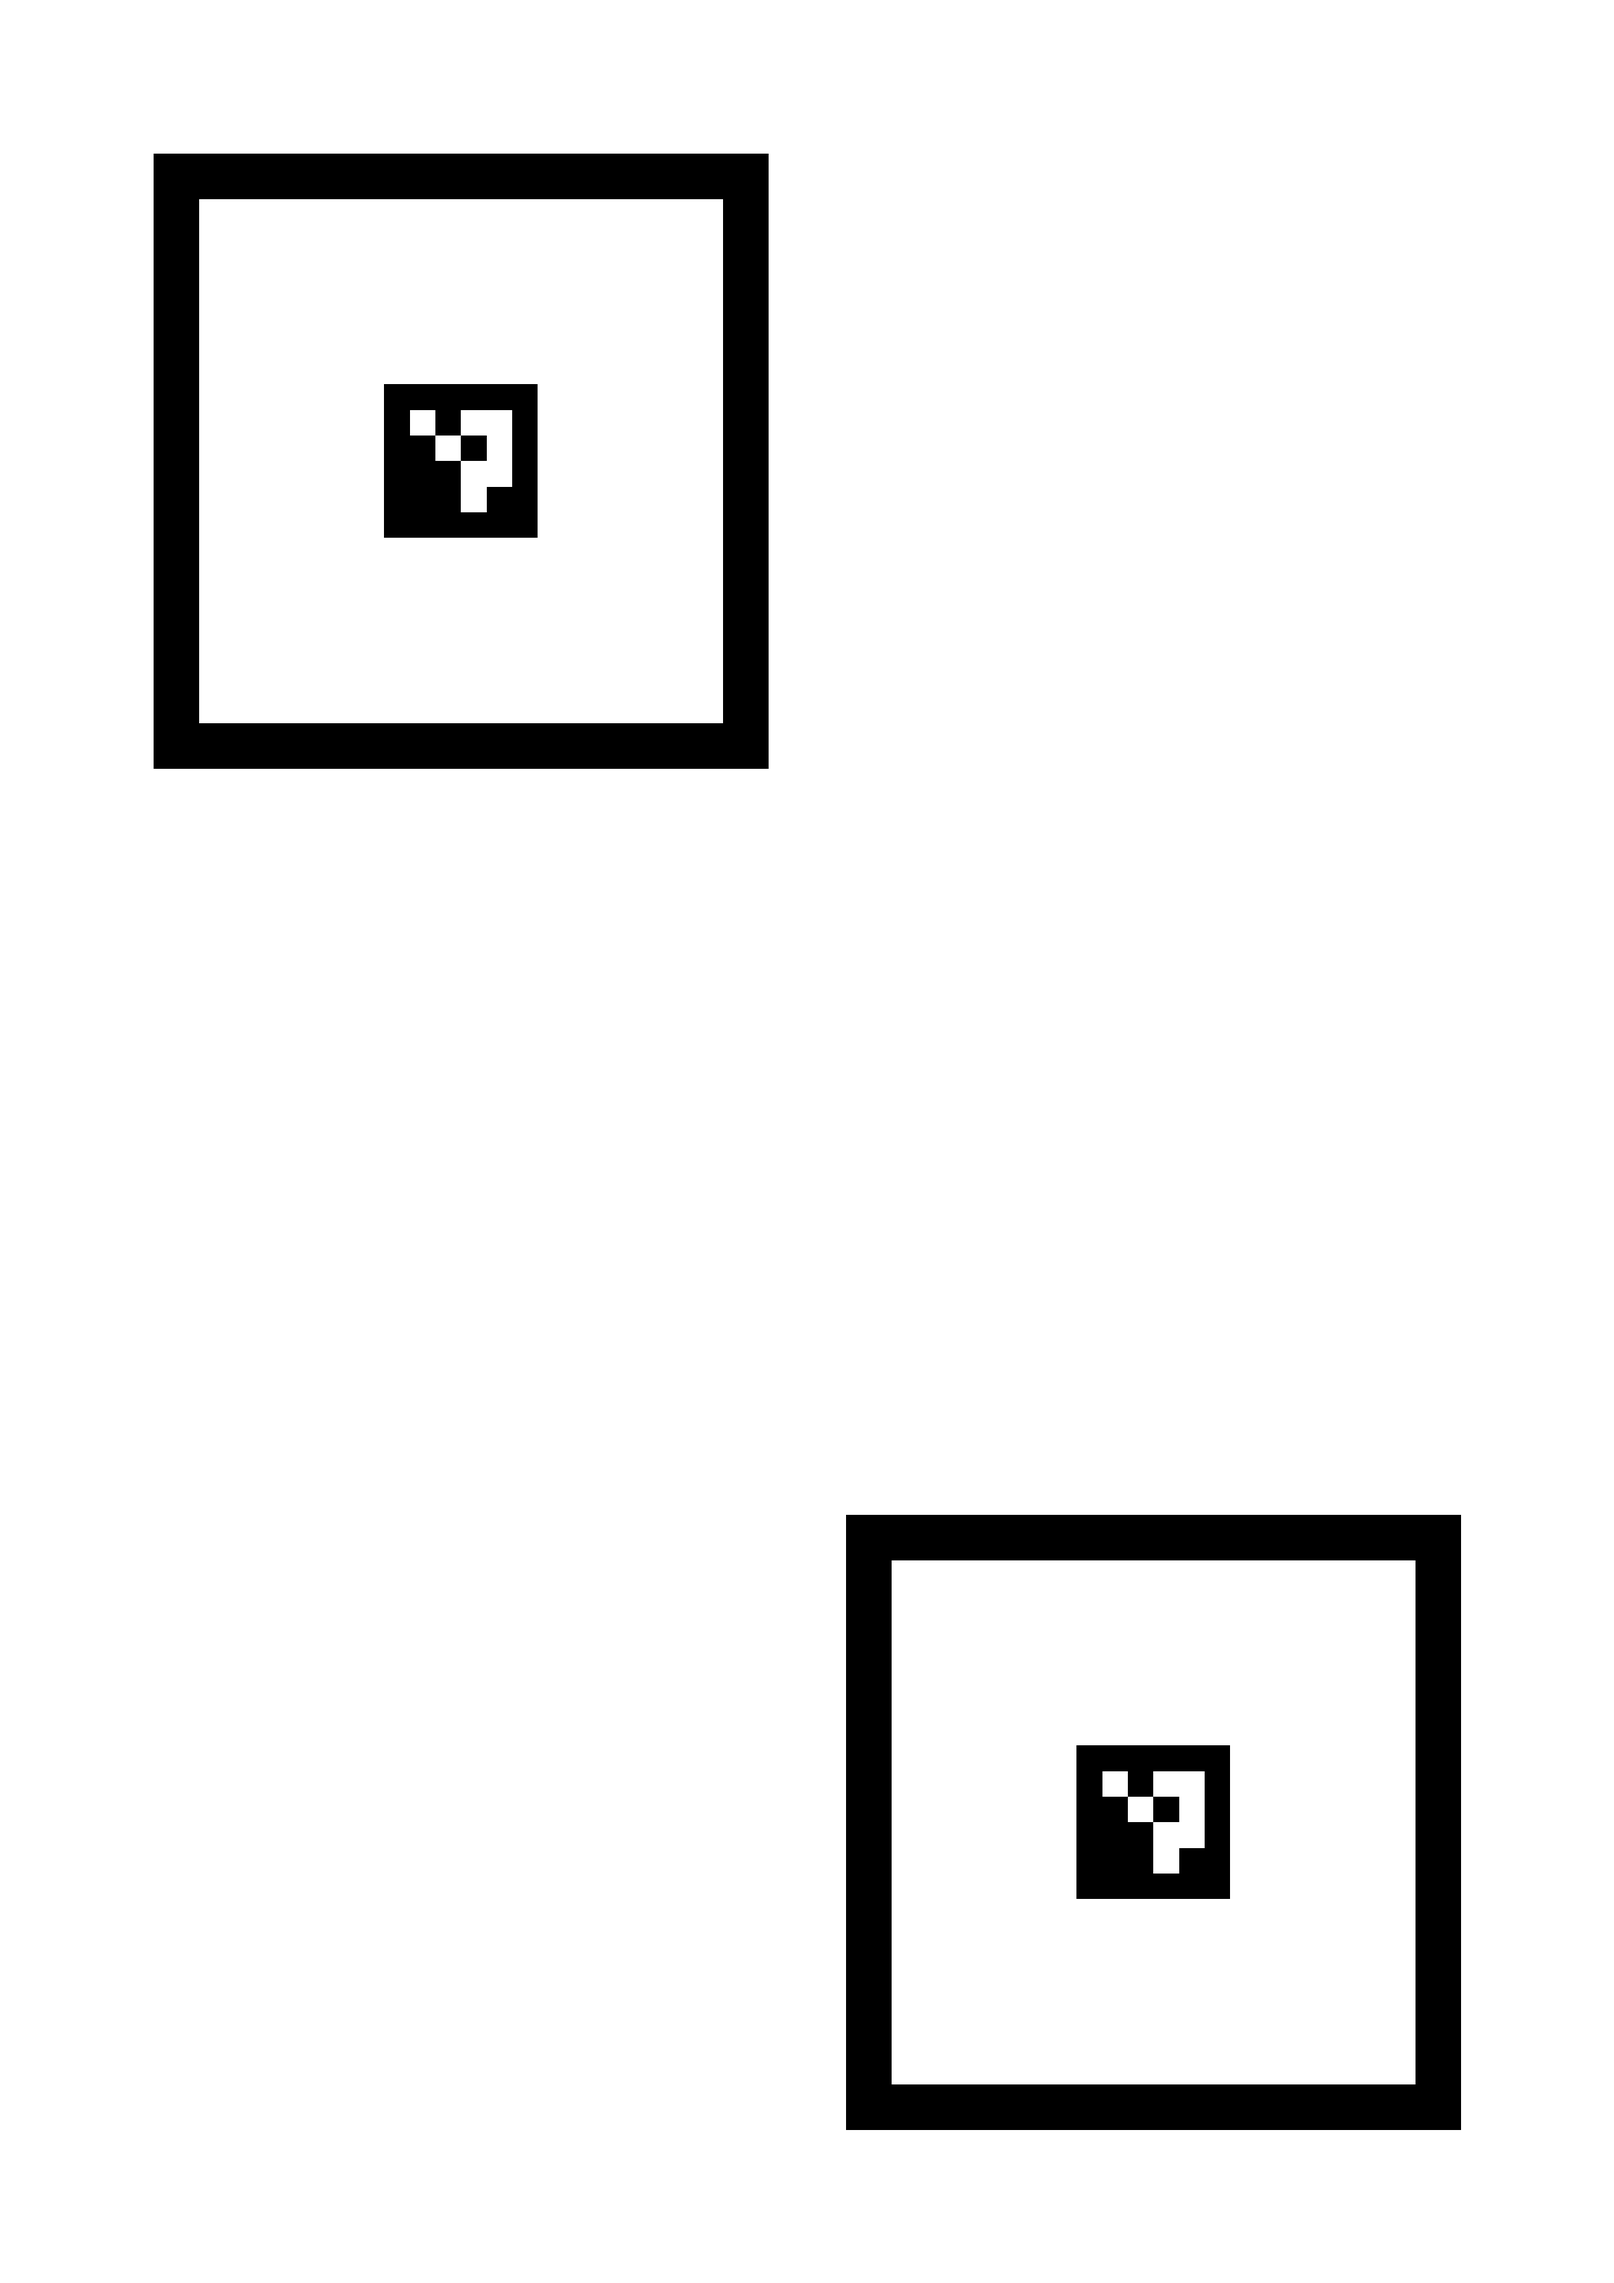
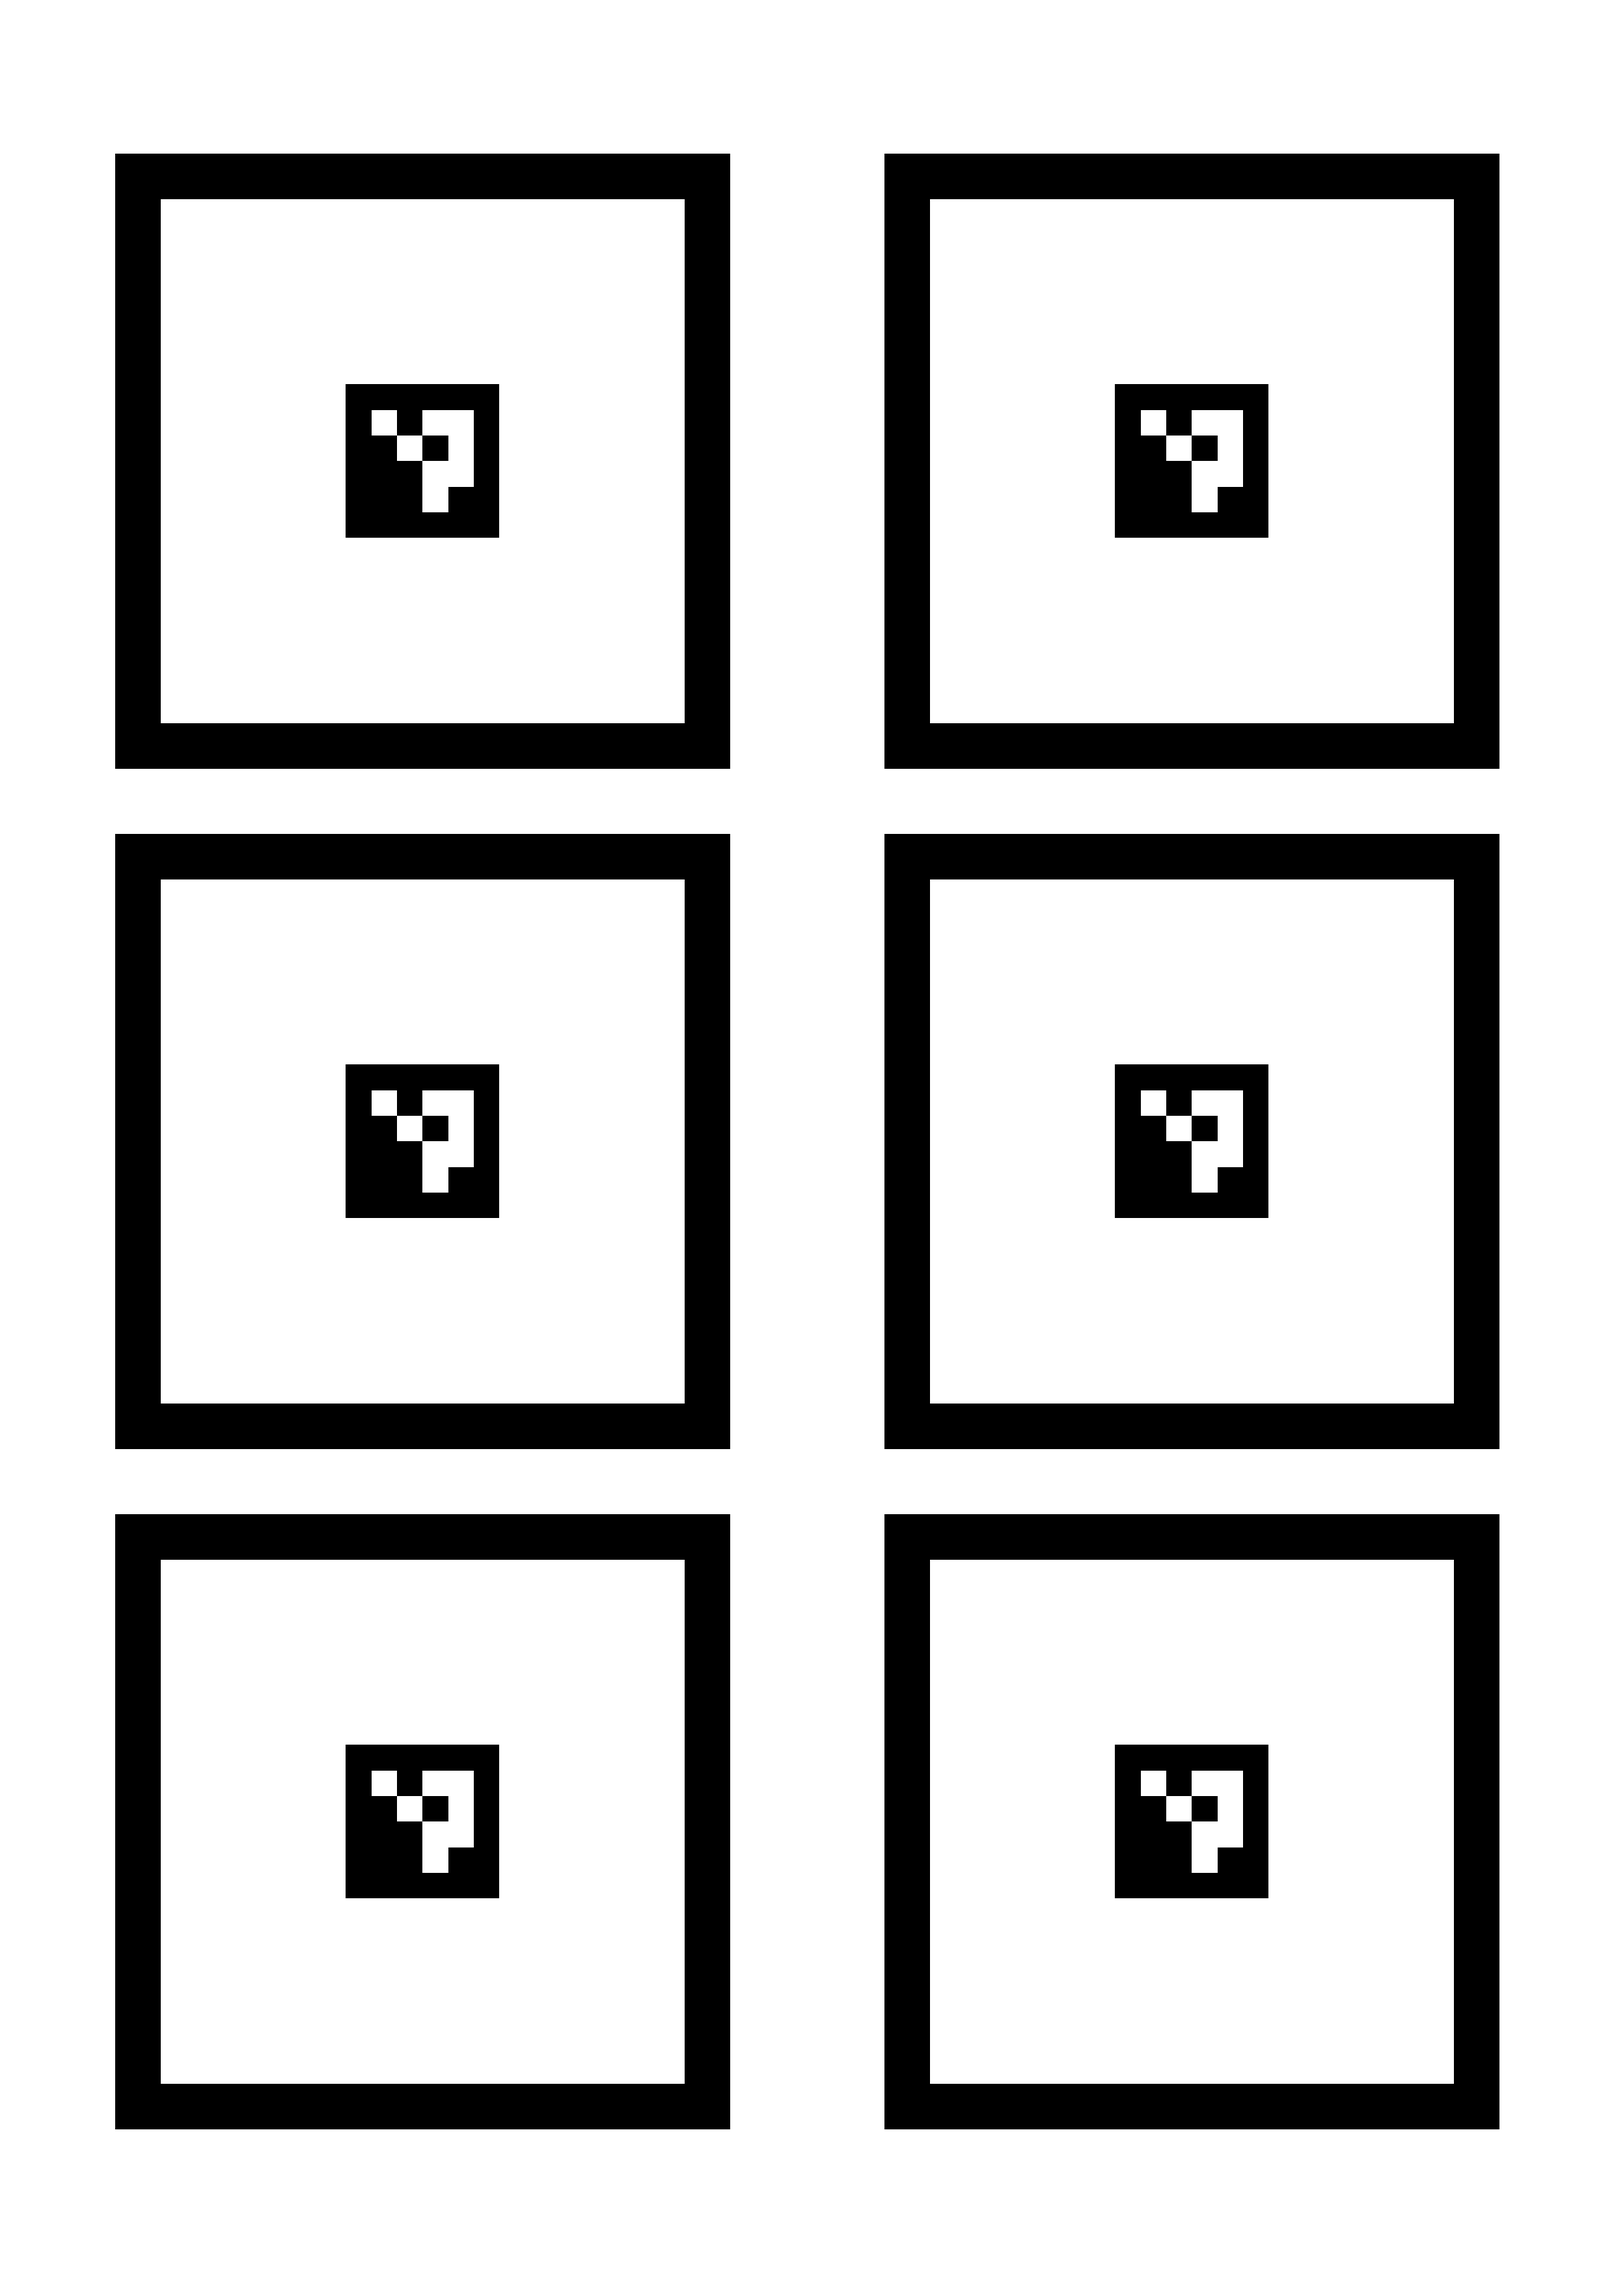
1029

diff --git a/PDMS2_web/ch4-t1/mian.py b/PDMS2_web/ch4-t1/mian.py
@@ -1,0 +1,132 @@
+import cv2
+import glob
+import os
+import numpy as np
+import sys
+import json
+
+
+def return_score(score):
+    sys.exit(int(score))
+
+
+# 找最大四邊形輪廓
+def get_largest_quadrilateral_contour(img):
+    gray = cv2.cvtColor(img, cv2.COLOR_BGR2GRAY)
+    blurred = cv2.GaussianBlur(gray, (5, 5), 0)
+    edges = cv2.Canny(blurred, 80, 200)
+    dilated = cv2.dilate(edges, np.ones((3, 3), np.uint8), iterations=1)
+    contours, _ = cv2.findContours(dilated, cv2.RETR_EXTERNAL, cv2.CHAIN_APPROX_SIMPLE)
+    contours = [cnt for cnt in contours if cv2.contourArea(cnt) > 500]
+
+    max_quad, max_area = None, 0
+    for cnt in contours:
+        peri = cv2.arcLength(cnt, True)
+        approx = cv2.approxPolyDP(cnt, 0.04 * peri, True)
+        if len(approx) == 4:
+            area = cv2.contourArea(approx)
+            if area > max_area:
+                max_area, max_quad = area, approx
+    return max_quad
+
+
+# 合併輪廓
+def merge_close_contours(contours, threshold=10):
+    merged, used, centers = [], [False] * len(contours), []
+    for cnt in contours:
+        M = cv2.moments(cnt)
+        if M["m00"] != 0:
+            centers.append((int(M["m10"] / M["m00"]), int(M["m01"] / M["m00"])))
+        else:
+            centers.append((0, 0))
+    for i, cnt1 in enumerate(contours):
+        if used[i]:
+            continue
+        group = [cnt1]
+        used[i] = True
+        for j, cnt2 in enumerate(contours):
+            if i == j or used[j]:
+                continue
+            if np.linalg.norm(np.array(centers[i]) - np.array(centers[j])) < threshold:
+                group.append(cnt2)
+                used[j] = True
+        merged.append(np.vstack(group))
+    return merged
+
+
+# 角點排序（環狀）
+def sort_corners(pts):
+    pts = np.array(pts)
+    center = np.mean(pts, axis=0)
+    ang = np.arctan2(pts[:, 1] - center[1], pts[:, 0] - center[0])
+    return [tuple(p) for p in pts[np.argsort(ang)]]
+
+
+# 主流程
+def analyze_image(img_path):
+    cm_per_pixel = 0.02068
+    actual_length_cm = 7.5
+
+    img_color_raw = cv2.imread(img_path)
+    if img_color_raw is None:
+        raise ValueError("無法讀取圖片")
+
+    max_contour = get_largest_quadrilateral_contour(img_color_raw)
+
+    if max_contour is None:
+        hsv = cv2.cvtColor(img_color_raw, cv2.COLOR_BGR2HSV)
+        white_mask = cv2.inRange(hsv, np.array([0, 0, 160]), np.array([180, 80, 255]))
+        edges_white = cv2.Canny(white_mask, 80, 200)
+        dilated_white = cv2.dilate(edges_white, np.ones((5, 5), np.uint8), iterations=1)
+        contours_white, _ = cv2.findContours(
+            dilated_white, cv2.RETR_EXTERNAL, cv2.CHAIN_APPROX_SIMPLE
+        )
+        contours_white = [cnt for cnt in contours_white if cv2.contourArea(cnt) > 500]
+        if not contours_white:
+            return 0
+        merged_white = merge_close_contours(contours_white, threshold=5)
+        max_contour = max(merged_white, key=cv2.contourArea)
+        peri = cv2.arcLength(max_contour, True)
+        approx = cv2.approxPolyDP(max_contour, 0.05 * peri, True)
+        if len(approx) != 4:
+            return 0
+    else:
+        peri = cv2.arcLength(max_contour, True)
+        approx = cv2.approxPolyDP(max_contour, 0.05 * peri, True)
+        if len(approx) != 4:
+            return 0
+
+    # 計算短邊
+    corners = [np.array(p) for p in sort_corners([pt[0] for pt in approx])]
+    edge_pts = [(corners[i], corners[(i + 1) % 4]) for i in range(4)]
+
+    edges_info = []
+    for p1, p2 in edge_pts:
+        length_px = np.linalg.norm(p1 - p2)
+        edges_info.append((p1, p2, length_px * cm_per_pixel))
+
+    edges_info.sort(key=lambda x: x[2])
+    short_edges = edges_info[:2]
+
+    s1, s2 = short_edges[0][2], short_edges[1][2]
+    d1, d2 = abs(s1 - actual_length_cm), abs(s2 - actual_length_cm)
+
+    if d1 <= 0.3 and d2 <= 0.3:
+        score = 2
+    elif d1 <= 1.2 and d2 <= 1.2:
+        score = 1
+    else:
+        score = 0
+
+    return score
+
+
+if __name__ == "__main__":
+    if len(sys.argv) > 2:
+        uid = sys.argv[1]
+        img_id = sys.argv[2]
+        image_path = rf"kid\{uid}\{img_id}.jpg"
+
+        score = analyze_image(image_path)
+        print(f"score : {score}")
+        return_score(score)

diff --git a/summer_vacation/cut_paper__square/make_ArUco_2.py b/summer_vacation/cut_paper__square/make_ArUco_2.py
@@ -25,24 +25,34 @@ square_size_px = mm2px(square_size_mm)
 border_width_px = mm2px(border_width_mm)
 
 
-# 四個角落的中心座標（往中間靠一點）
-offset = mm2px(20)  # 距離邊緣 2cm
+# 六個點的中心座標（2x3 排列）
+offset_x = mm2px(30)  # 水平距離邊緣 3cm
+offset_y = mm2px(30)  # 垂直距離邊緣 3cm
+
+# 計算垂直間距
+vertical_spacing = (a4_height_px - 2 * offset_y - square_size_px) // 2
+
+# 計算水平位置（增加左右間距，更靠近邊緣）
+margin = mm2px(15)  # 只留 1.5cm 的邊距
+left_x = margin + square_size_px // 2
+right_x = a4_width_px - margin - square_size_px // 2
+
+# 計算三個垂直位置（也稍微調整垂直間距）
+top_margin = mm2px(20)  # 上下邊距 2cm
+available_height = a4_height_px - 2 * top_margin - square_size_px
+vertical_spacing = available_height // 2  # 平均分配剩餘空間
+
+top_y = top_margin + square_size_px // 2
+middle_y = top_y + vertical_spacing
+bottom_y = middle_y + vertical_spacing
+
 centers = [
-    (square_size_px // 2 + offset, square_size_px // 2 + offset),  # 左上
-    (a4_width_px - square_size_px // 2 - offset, square_size_px // 2 + offset),  # 右上
-    (square_size_px // 2 + offset, a4_height_px - square_size_px // 2 - offset),  # 左下
-    (
-        a4_width_px - square_size_px // 2 - offset,
-        a4_height_px - square_size_px // 2 - offset,
-    ),  # 右下
-]
-# 只畫左上與右下
-centers = [
-    (square_size_px // 2 + offset, square_size_px // 2 + offset),  # 左上
-    (
-        a4_width_px - square_size_px // 2 - offset,
-        a4_height_px - square_size_px // 2 - offset,
-    ),  # 右下
+    (left_x, top_y),  # 左上
+    (right_x, top_y),  # 右上
+    (left_x, middle_y),  # 左中
+    (right_x, middle_y),  # 右中
+    (left_x, bottom_y),  # 左下
+    (right_x, bottom_y),  # 右下
 ]
 
 # ArUco marker parameters
